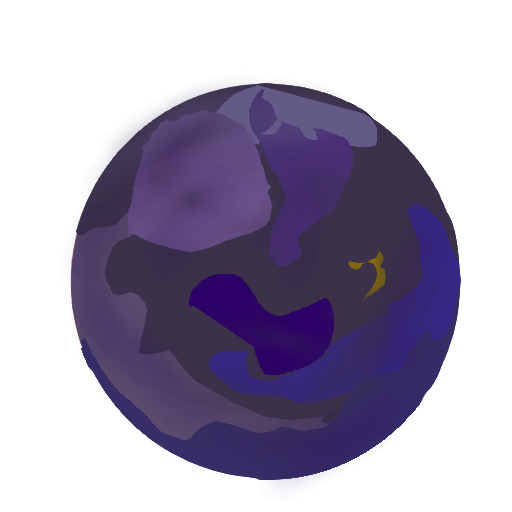
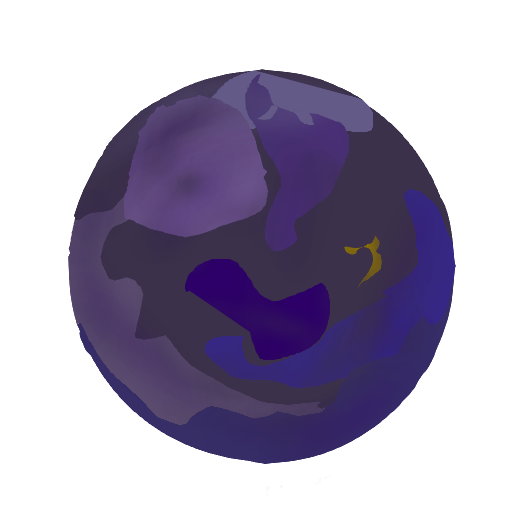
MAP2の惑星を手直ししました

diff --git a/追跡者１/追跡者１/ObjTips4.cpp b/追跡者１/追跡者１/ObjTips4.cpp
@@ -44,8 +44,8 @@ void CObjTips4::Draw()
 
 	src.m_top = 0.0f;
 	src.m_left = 0.0f;
-	src.m_right = 64.0f;
-	src.m_bottom = 64.0f;
+	src.m_right = 512.0f;
+	src.m_bottom = 512.0f;
 
 	dst.m_top = 0.0f + m_py;
 	dst.m_left = 0.0f + m_px;

diff --git a/追跡者１/追跡者１/ObjTips5.cpp b/追跡者１/追跡者１/ObjTips5.cpp
@@ -44,8 +44,8 @@ void CObjTips5::Draw()
 
 	src.m_top = 0.0f;
 	src.m_left = 0.0f;
-	src.m_right = 64.0f;
-	src.m_bottom = 64.0f;
+	src.m_right = 512.0f;
+	src.m_bottom = 512.0f;
 
 	dst.m_top = 0.0f + m_py;
 	dst.m_left = 0.0f + m_px;
